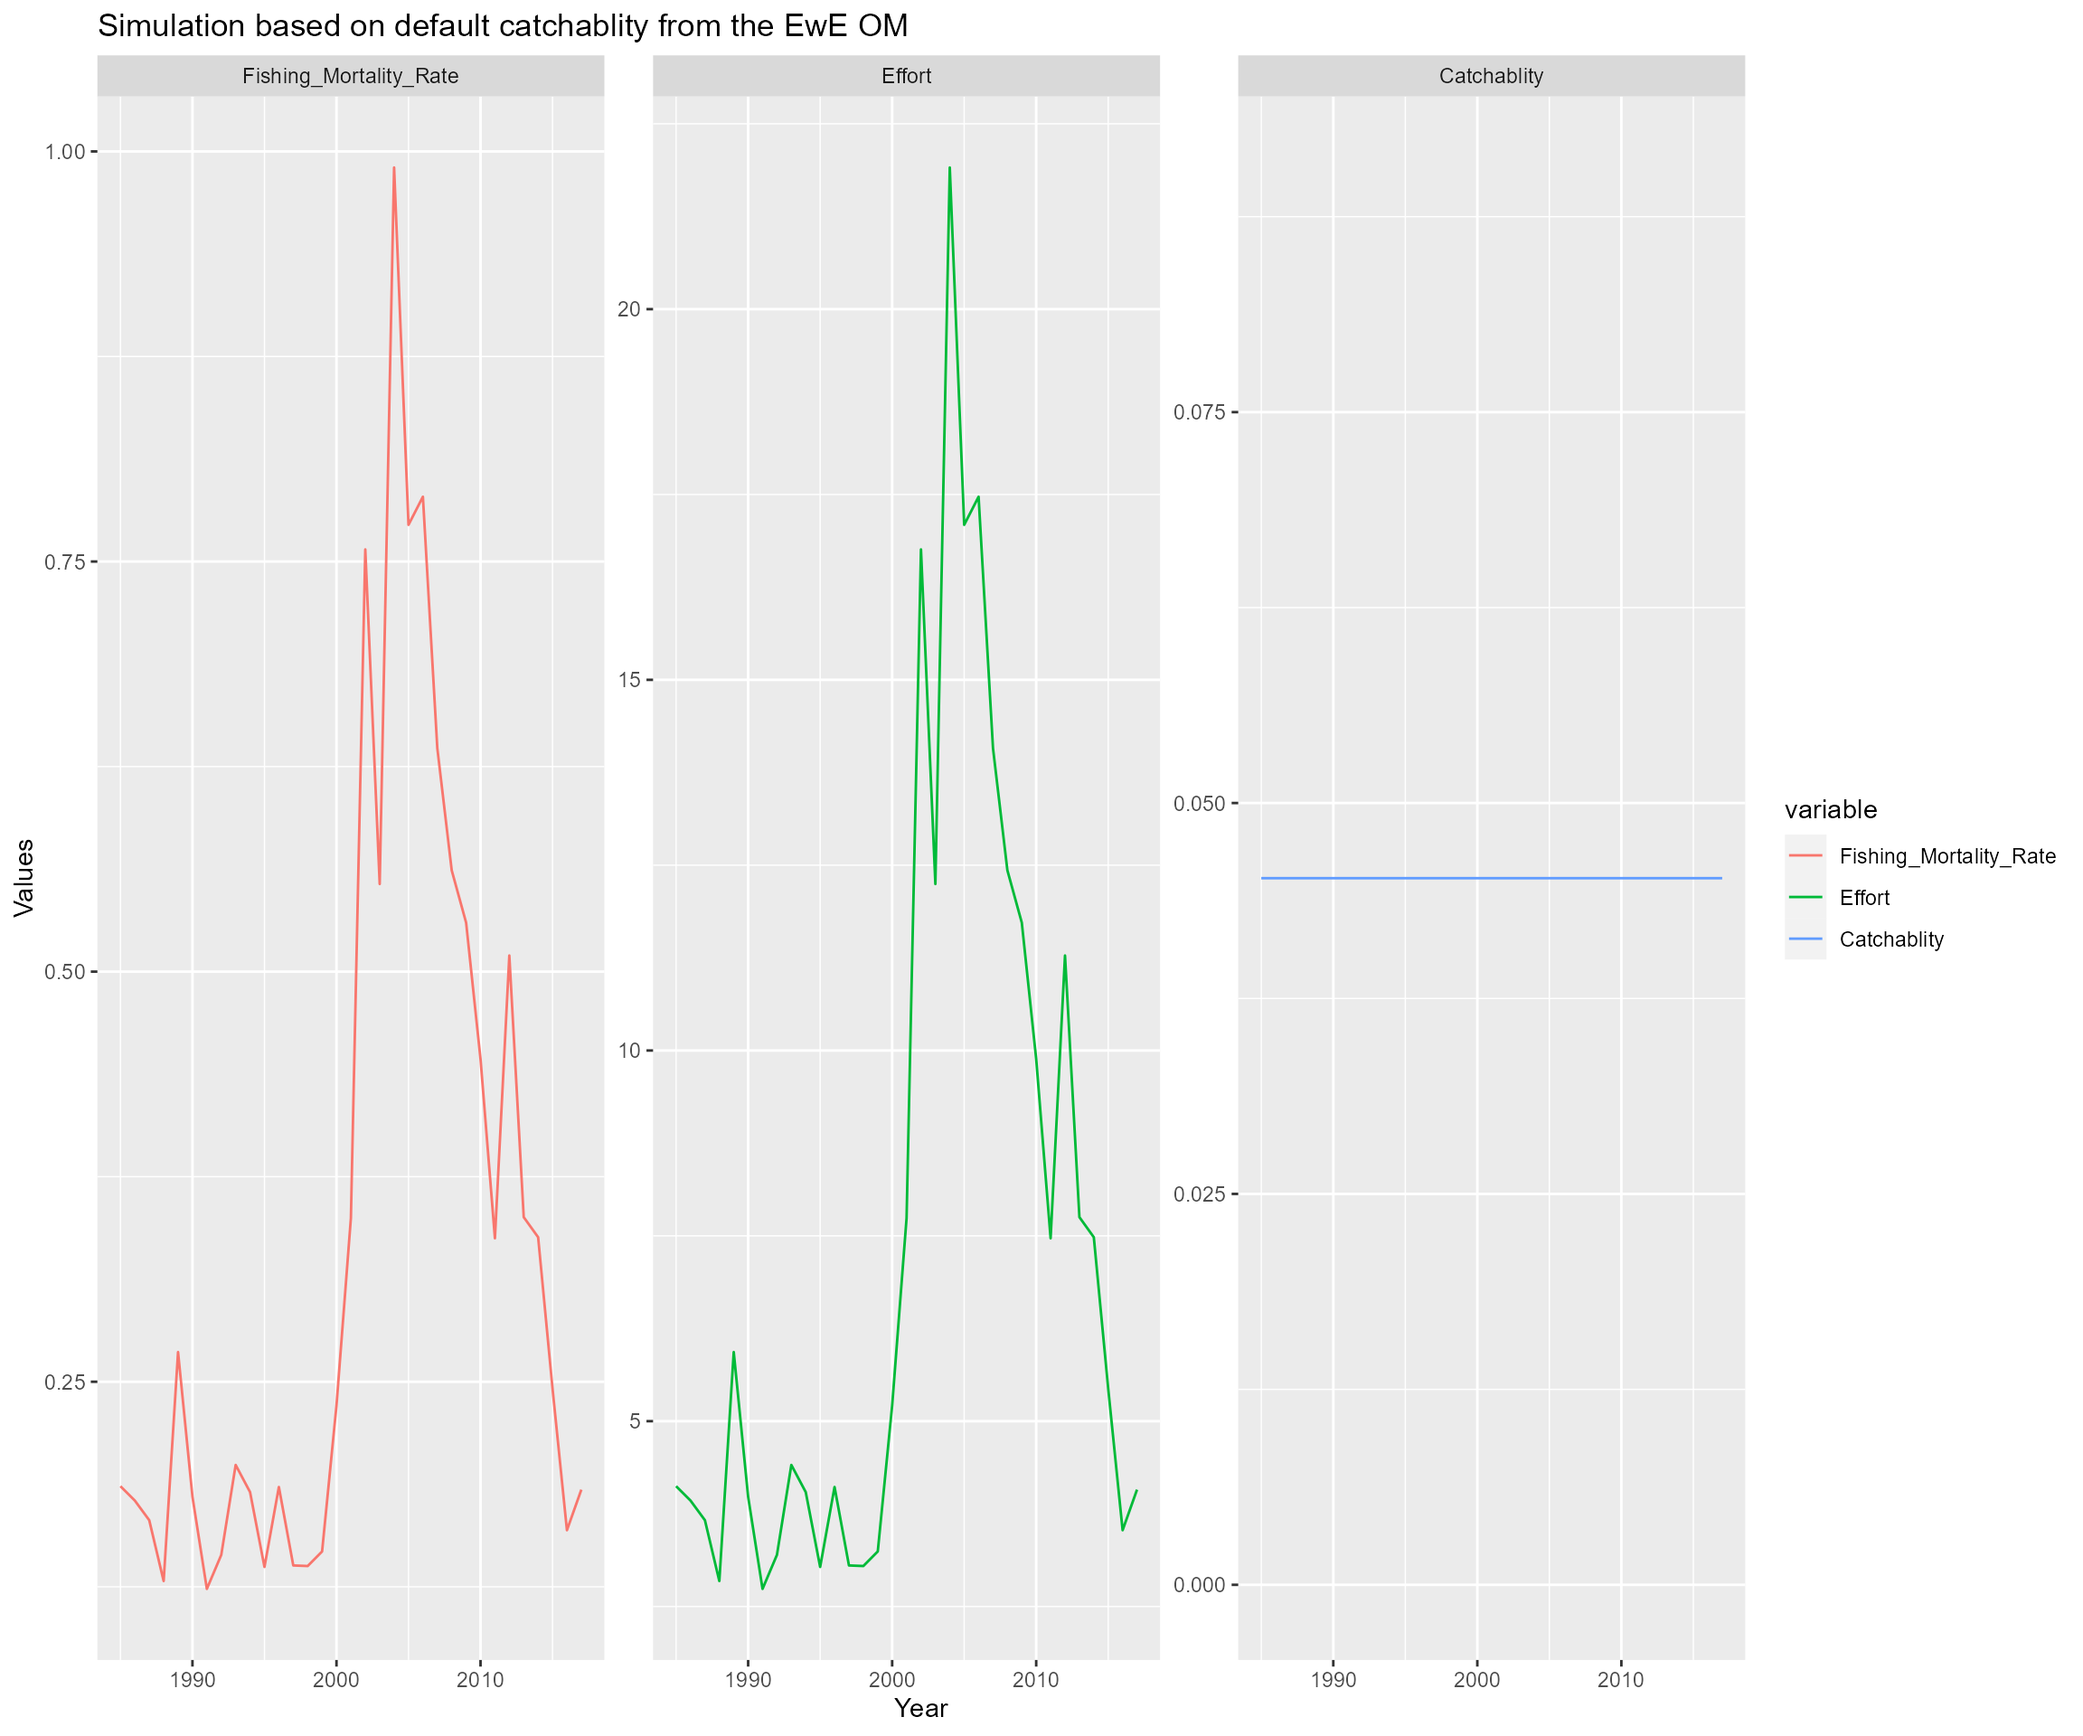
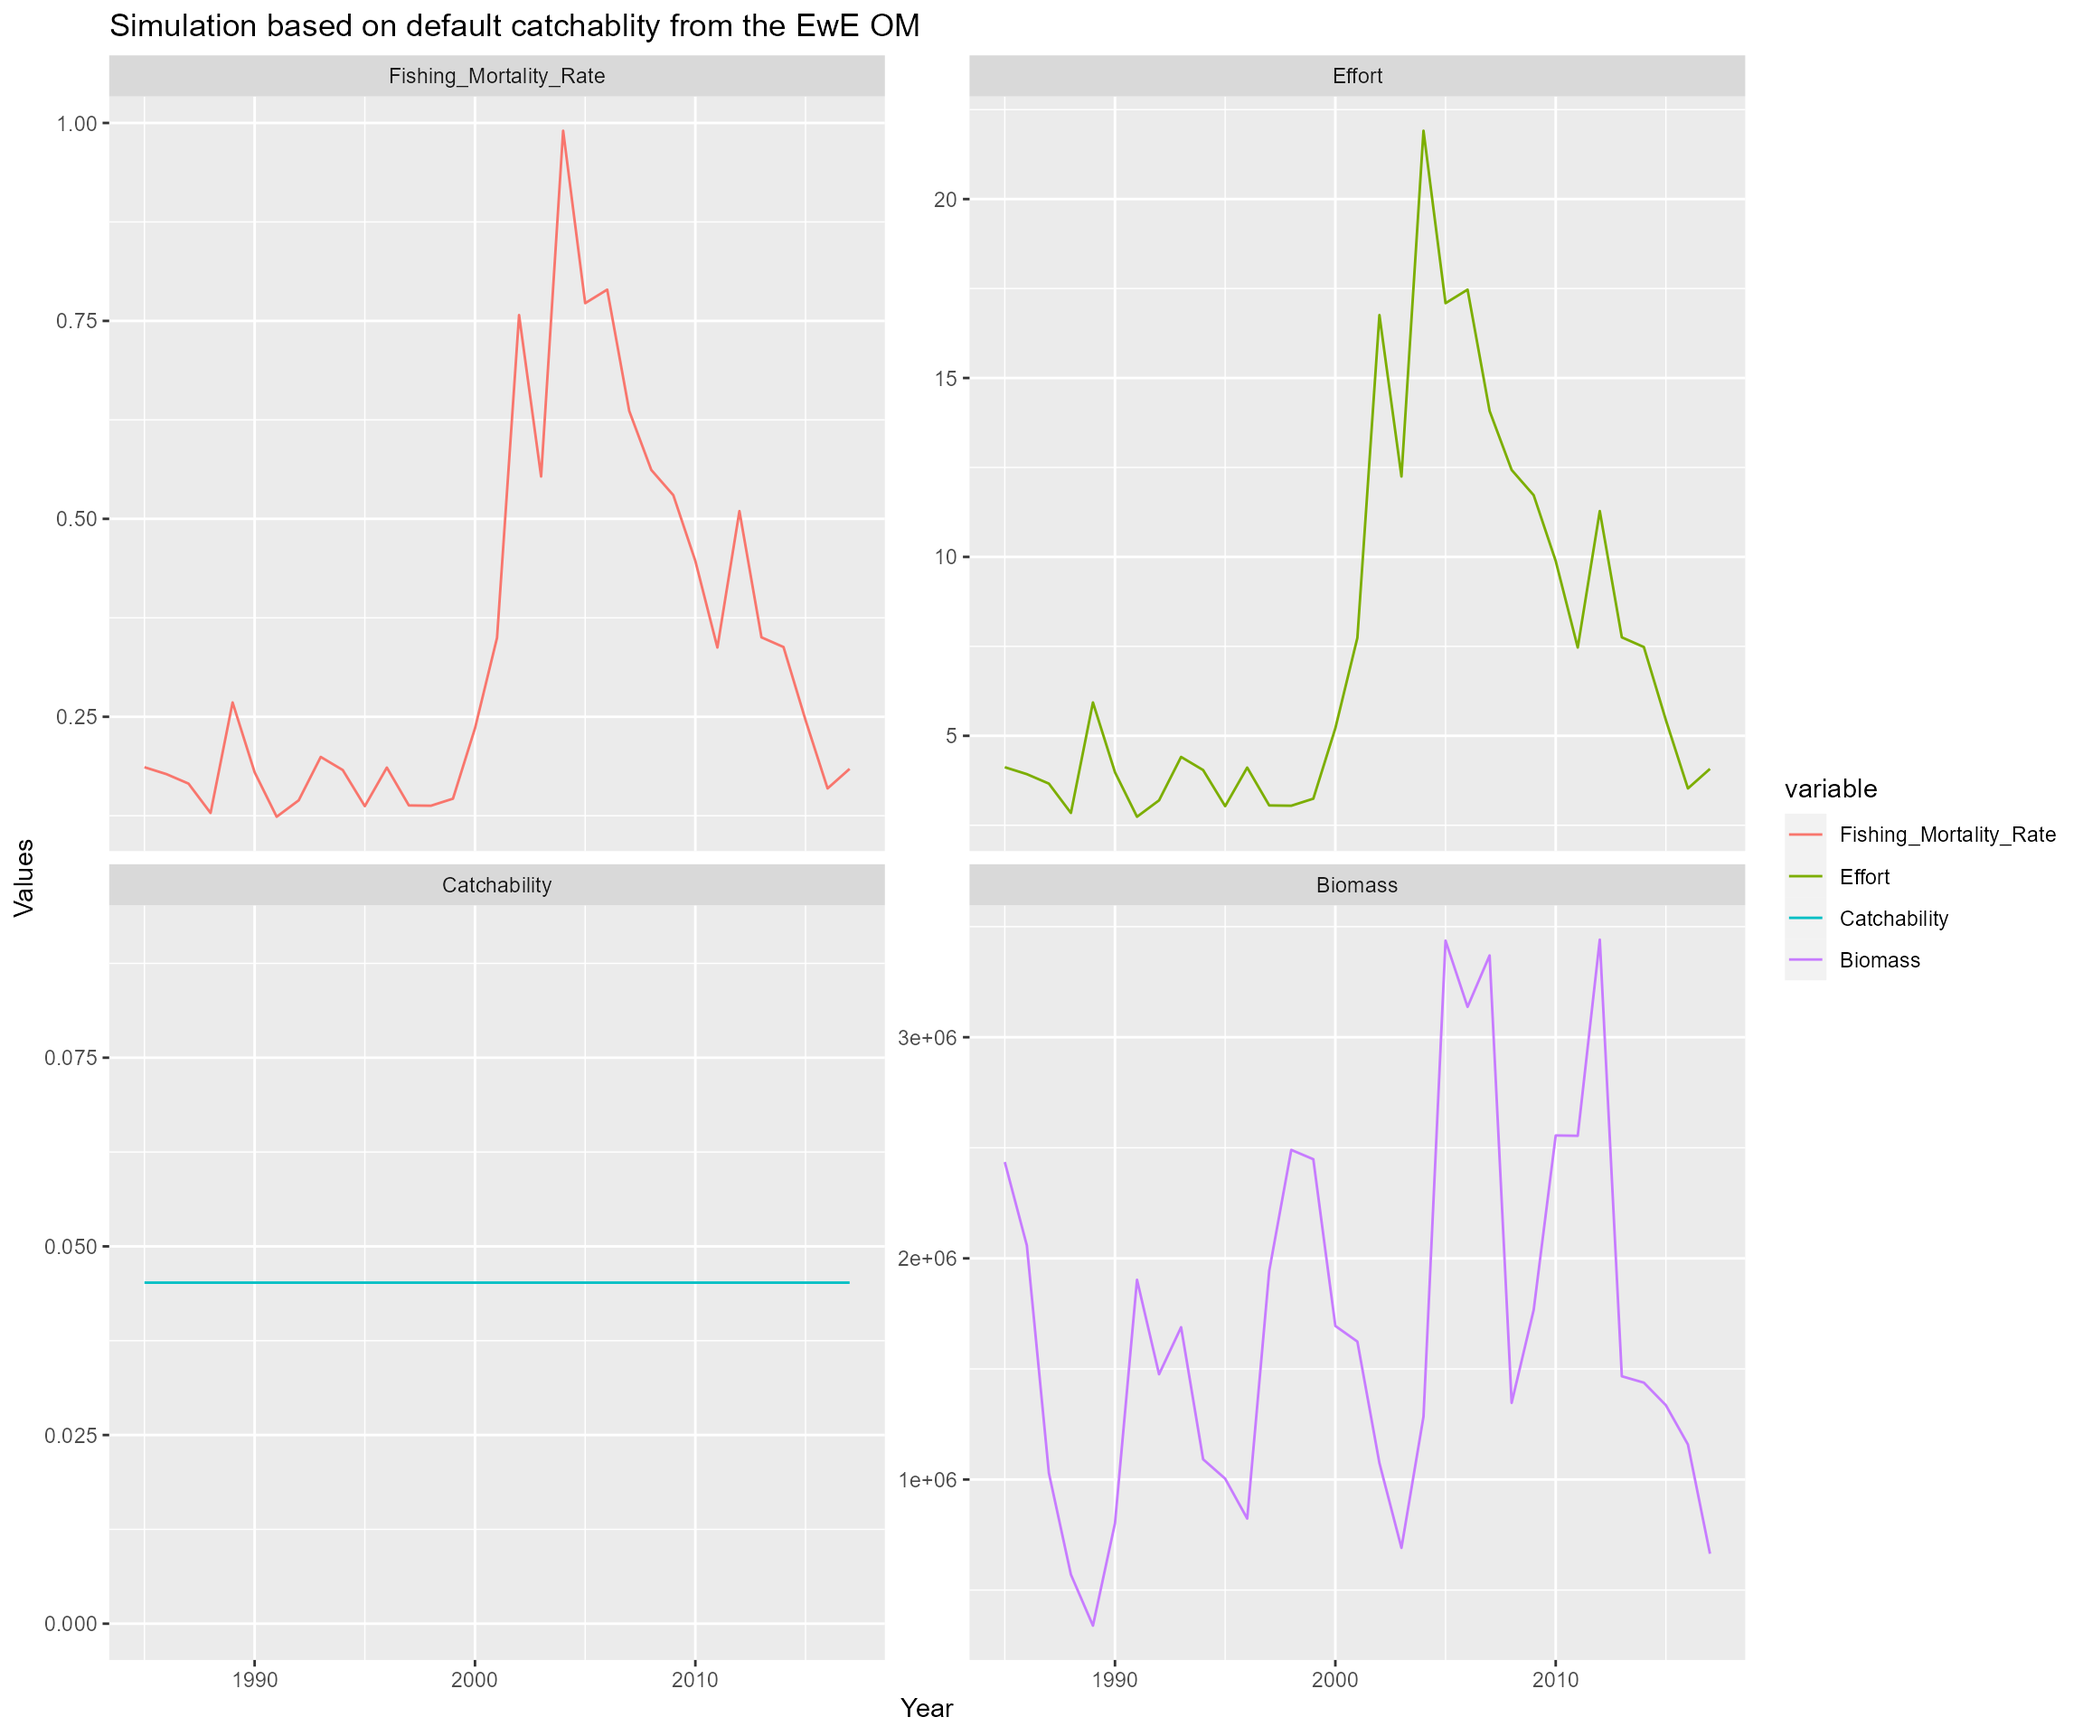
update vignette to plot catchability and biomass

diff --git a/docs/articles/15_Catchability_pattern_exploration.html b/docs/articles/15_Catchability_pattern_exploration.html
@@ -158,12 +158,12 @@
 <div class="section level2">
 <h2 id="simulation-based-on-default-catchablity-from-the-ewe-om">Simulation based on default catchablity from the EwE OM<a class="anchor" aria-label="anchor" href="#simulation-based-on-default-catchablity-from-the-ewe-om"></a>
 </h2>
-<p><img src="15_Catchability_pattern_exploration_files/figure-html/unnamed-chunk-2-1.png" width="1152"></p>
+<p><img src="15_Catchability_pattern_exploration_files/figure-html/unnamed-chunk-2-1.png" width="1152"><img src="15_Catchability_pattern_exploration_files/figure-html/unnamed-chunk-2-2.png" width="1152"></p>
 </div>
 <div class="section level2">
 <h2 id="simulation-based-on-density-dependent-catchablity">Simulation based on density-dependent catchablity<a class="anchor" aria-label="anchor" href="#simulation-based-on-density-dependent-catchablity"></a>
 </h2>
-<p><img src="15_Catchability_pattern_exploration_files/figure-html/unnamed-chunk-3-1.png" width="1152"></p>
+<p><img src="15_Catchability_pattern_exploration_files/figure-html/unnamed-chunk-3-1.png" width="1152"><img src="15_Catchability_pattern_exploration_files/figure-html/unnamed-chunk-3-2.png" width="1152"></p>
 </div>
   </div>
 
